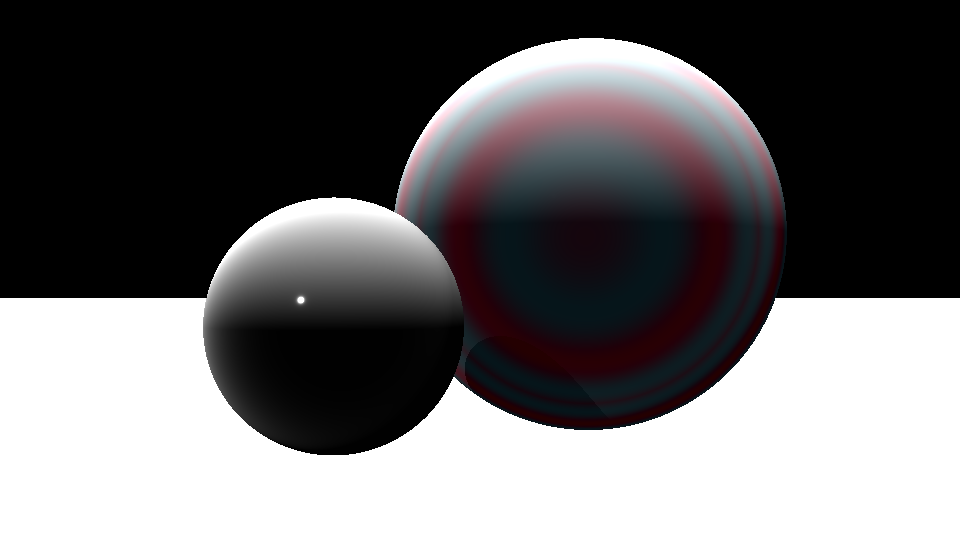
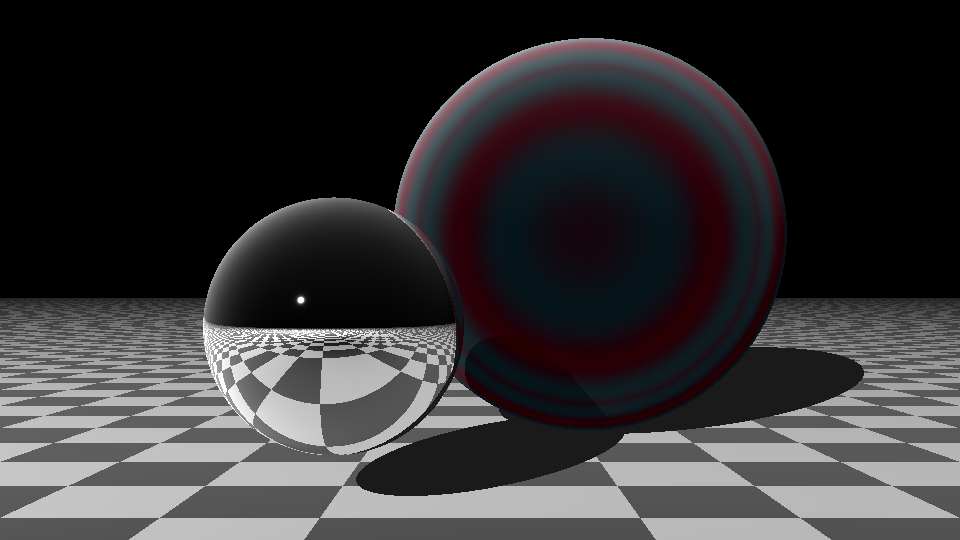
feat: try to multiply reflection * specular

diff --git a/ray_tracer/infrastructure/numpy/shader.py b/ray_tracer/infrastructure/numpy/shader.py
@@ -87,7 +87,7 @@ class NumpyShader(Shader):
 
         color += self._calculate_diffuse(intersection_point, normal, direction_to_light, is_in_light)
 
-        color += self._calculate_reflection(
+        reflection = self._calculate_reflection(
             nudged_intersection_point,
             normal,
             normalized_ray_direction,
@@ -97,7 +97,19 @@ class NumpyShader(Shader):
 
         color += self._calculate_dome_light(normal, scene)
 
-        color += self._calculate_physical_specular(normal, direction_to_light, direction_to_ray_origin) * is_in_light
+        specular = self._calculate_physical_specular(
+            normal,
+            direction_to_light,
+            direction_to_ray_origin,
+        )
+
+        # print(type(reflection.x), type(specular.x))
+        # print("color before", color.x)
+        # color += specular * reflection
+        color += specular * is_in_light
+        # print("color after", color.x)
+
+        color += reflection * self.reflection_gain
 
         color += self._calculate_physical_iridescence(normal, direction_to_ray_origin)
 
@@ -132,7 +144,7 @@ class NumpyShader(Shader):
             self.diffuse_color.get_color(intersection_point) * diffuse_light_intensity * is_in_light * self.diffuse_gain
         )
 
-    def _calculate_reflection(  #TODO: VOIR TRANSMISSION
+    def _calculate_reflection(  # TODO: VOIR TRANSMISSION
         self,
         nudged_intersection_point: NumpyVector3D,
         normal: NumpyVector3D,
@@ -141,13 +153,15 @@ class NumpyShader(Shader):
         ray_tracer: Renderer,
     ) -> NumpyRGBColor:
         ray_direction = (normalized_ray_direction - normal * 2 * normalized_ray_direction.dot(normal)).norm()
-        return (
-            ray_tracer.raytrace_scene(
-                nudged_intersection_point,
-                ray_direction,
-                scene,
-            )
-            * self.reflection_gain
+        color = ray_tracer.raytrace_scene(
+            nudged_intersection_point,
+            ray_direction,
+            scene,
+        )
+        return NumpyRGBColor(
+            np.array(color.x),
+            np.array(color.y),
+            np.array(color.z),
         )
 
     def _calculate_phong_specular(
@@ -173,7 +187,7 @@ class NumpyShader(Shader):
     def _calculate_ambient_color(self) -> NumpyRGBColor:
         return NumpyRGBColor(0.004, 0.004, 0.004)  # minimum black color
 
-    def _calculate_physical_iridescence(  #TODO: NE SE VOIT QUE DANS LE SPECULAIRE!
+    def _calculate_physical_iridescence(  # TODO: NE SE VOIT QUE DANS LE SPECULAIRE!
         self,
         normal: NumpyVector3D,
         direction_to_ray_origin: NumpyVector3D,
@@ -237,9 +251,8 @@ class NumpyShader(Shader):
         normal: NumpyVector3D,
         direction_to_light: NumpyVector3D,
         direction_to_ray_origin: NumpyVector3D,
-        ) -> NumpyRGBColor:
-        """
-        Calcule le terme spéculaire en combinant un modèle microfacettes GGX (avec Fresnel)
+    ) -> NumpyRGBColor:
+        """Calcule le terme spéculaire en combinant un modèle microfacettes GGX (avec Fresnel)
         et un boost de glint aux bords, visible uniquement si la lumière (domeLight ou équivalent)
         éclaire la surface.
 
@@ -265,9 +278,9 @@ class NumpyShader(Shader):
         eps = 1e-8  # Petite constante pour éviter la division par zéro.
 
         # Normalisation des vecteurs
-        L = direction_to_light.norm()           # Direction vers la lumière.
-        V = direction_to_ray_origin.norm()        # Direction vers la caméra.
-        H = (L + V).norm()                        # Vecteur milieu.
+        L = direction_to_light.norm()  # Direction vers la lumière.
+        V = direction_to_ray_origin.norm()  # Direction vers la caméra.
+        H = (L + V).norm()  # Vecteur milieu.
 
         # Calcul des produits scalaires nécessaires
         NdotV = np.clip(normal.dot(V), 0, 1)
@@ -281,8 +294,8 @@ class NumpyShader(Shader):
         F = F0 + (1 - F0) * (1 - VdotH) ** 5
 
         # ---- Distribution GGX des microfacettes ----
-        alpha = self.specular_roughness ** 2  # Le roughness au carré pour une réponse plus intuitive.
-        denom = (NdotH**2 * (alpha**2 - 1) + 1)
+        alpha = self.specular_roughness**2  # Le roughness au carré pour une réponse plus intuitive.
+        denom = NdotH**2 * (alpha**2 - 1) + 1
         D = (alpha**2) / (np.pi * (denom**2 + eps))
 
         # ---- Terme Géométrique G (Smith Schlick-GGX) ----
@@ -308,6 +321,4 @@ class NumpyShader(Shader):
         # Masquage de la contribution si la surface n'est pas orientée vers la caméra.
         spec_final = np.where(NdotV <= 0, 0, spec_final)
 
-        # Application de la couleur et du gain global.
         return NumpyRGBColor(1, 1, 1) * spec_final * self.specular_gain
-

diff --git a/main.py b/main.py
@@ -16,7 +16,7 @@ if __name__ == "__main__":
                 NumpyVector3D(0.55, 0.5, 3),
                 1.0,
                 NumpyShader(
-                    reflection_gain=0,
+                    reflection_gain=0.0,
                     specular_gain=1.0,
                     specular_roughness=0.01,
                     iridescence_gain=1.0,
@@ -28,7 +28,7 @@ if __name__ == "__main__":
                 NumpyVector3D(-0.45, 0.1, 1),
                 0.4,
                 NumpyShader(
-                    reflection_gain=0.0,
+                    reflection_gain=1.0,
                     specular_gain=1.0,
                     specular_roughness=0.1,
                     iridescence_gain=0.0,
@@ -39,12 +39,12 @@ if __name__ == "__main__":
             NumpySphere(
                 NumpyVector3D(0, -99999.5, 0),
                 99999,
-                NumpyShader(0, 1.0, 0.5, 0.0, 1.0, TextureChecker()),
+                NumpyShader(0.0, 1.0, 0.5, 0.0, 1.0, TextureChecker()),
             ),
         ],
         [
             PointLight(NumpyVector3D(-5, 5, -10)),
-            DomeLight(1.0, NumpyRGBColor(1, 1, 1)),
+            DomeLight(0.1, NumpyRGBColor(1, 1, 1)),
         ],
         Camera(NumpyVector3D(0, 0.2, -2), int(1920 / 2), int(1080 / 2)),
     )
